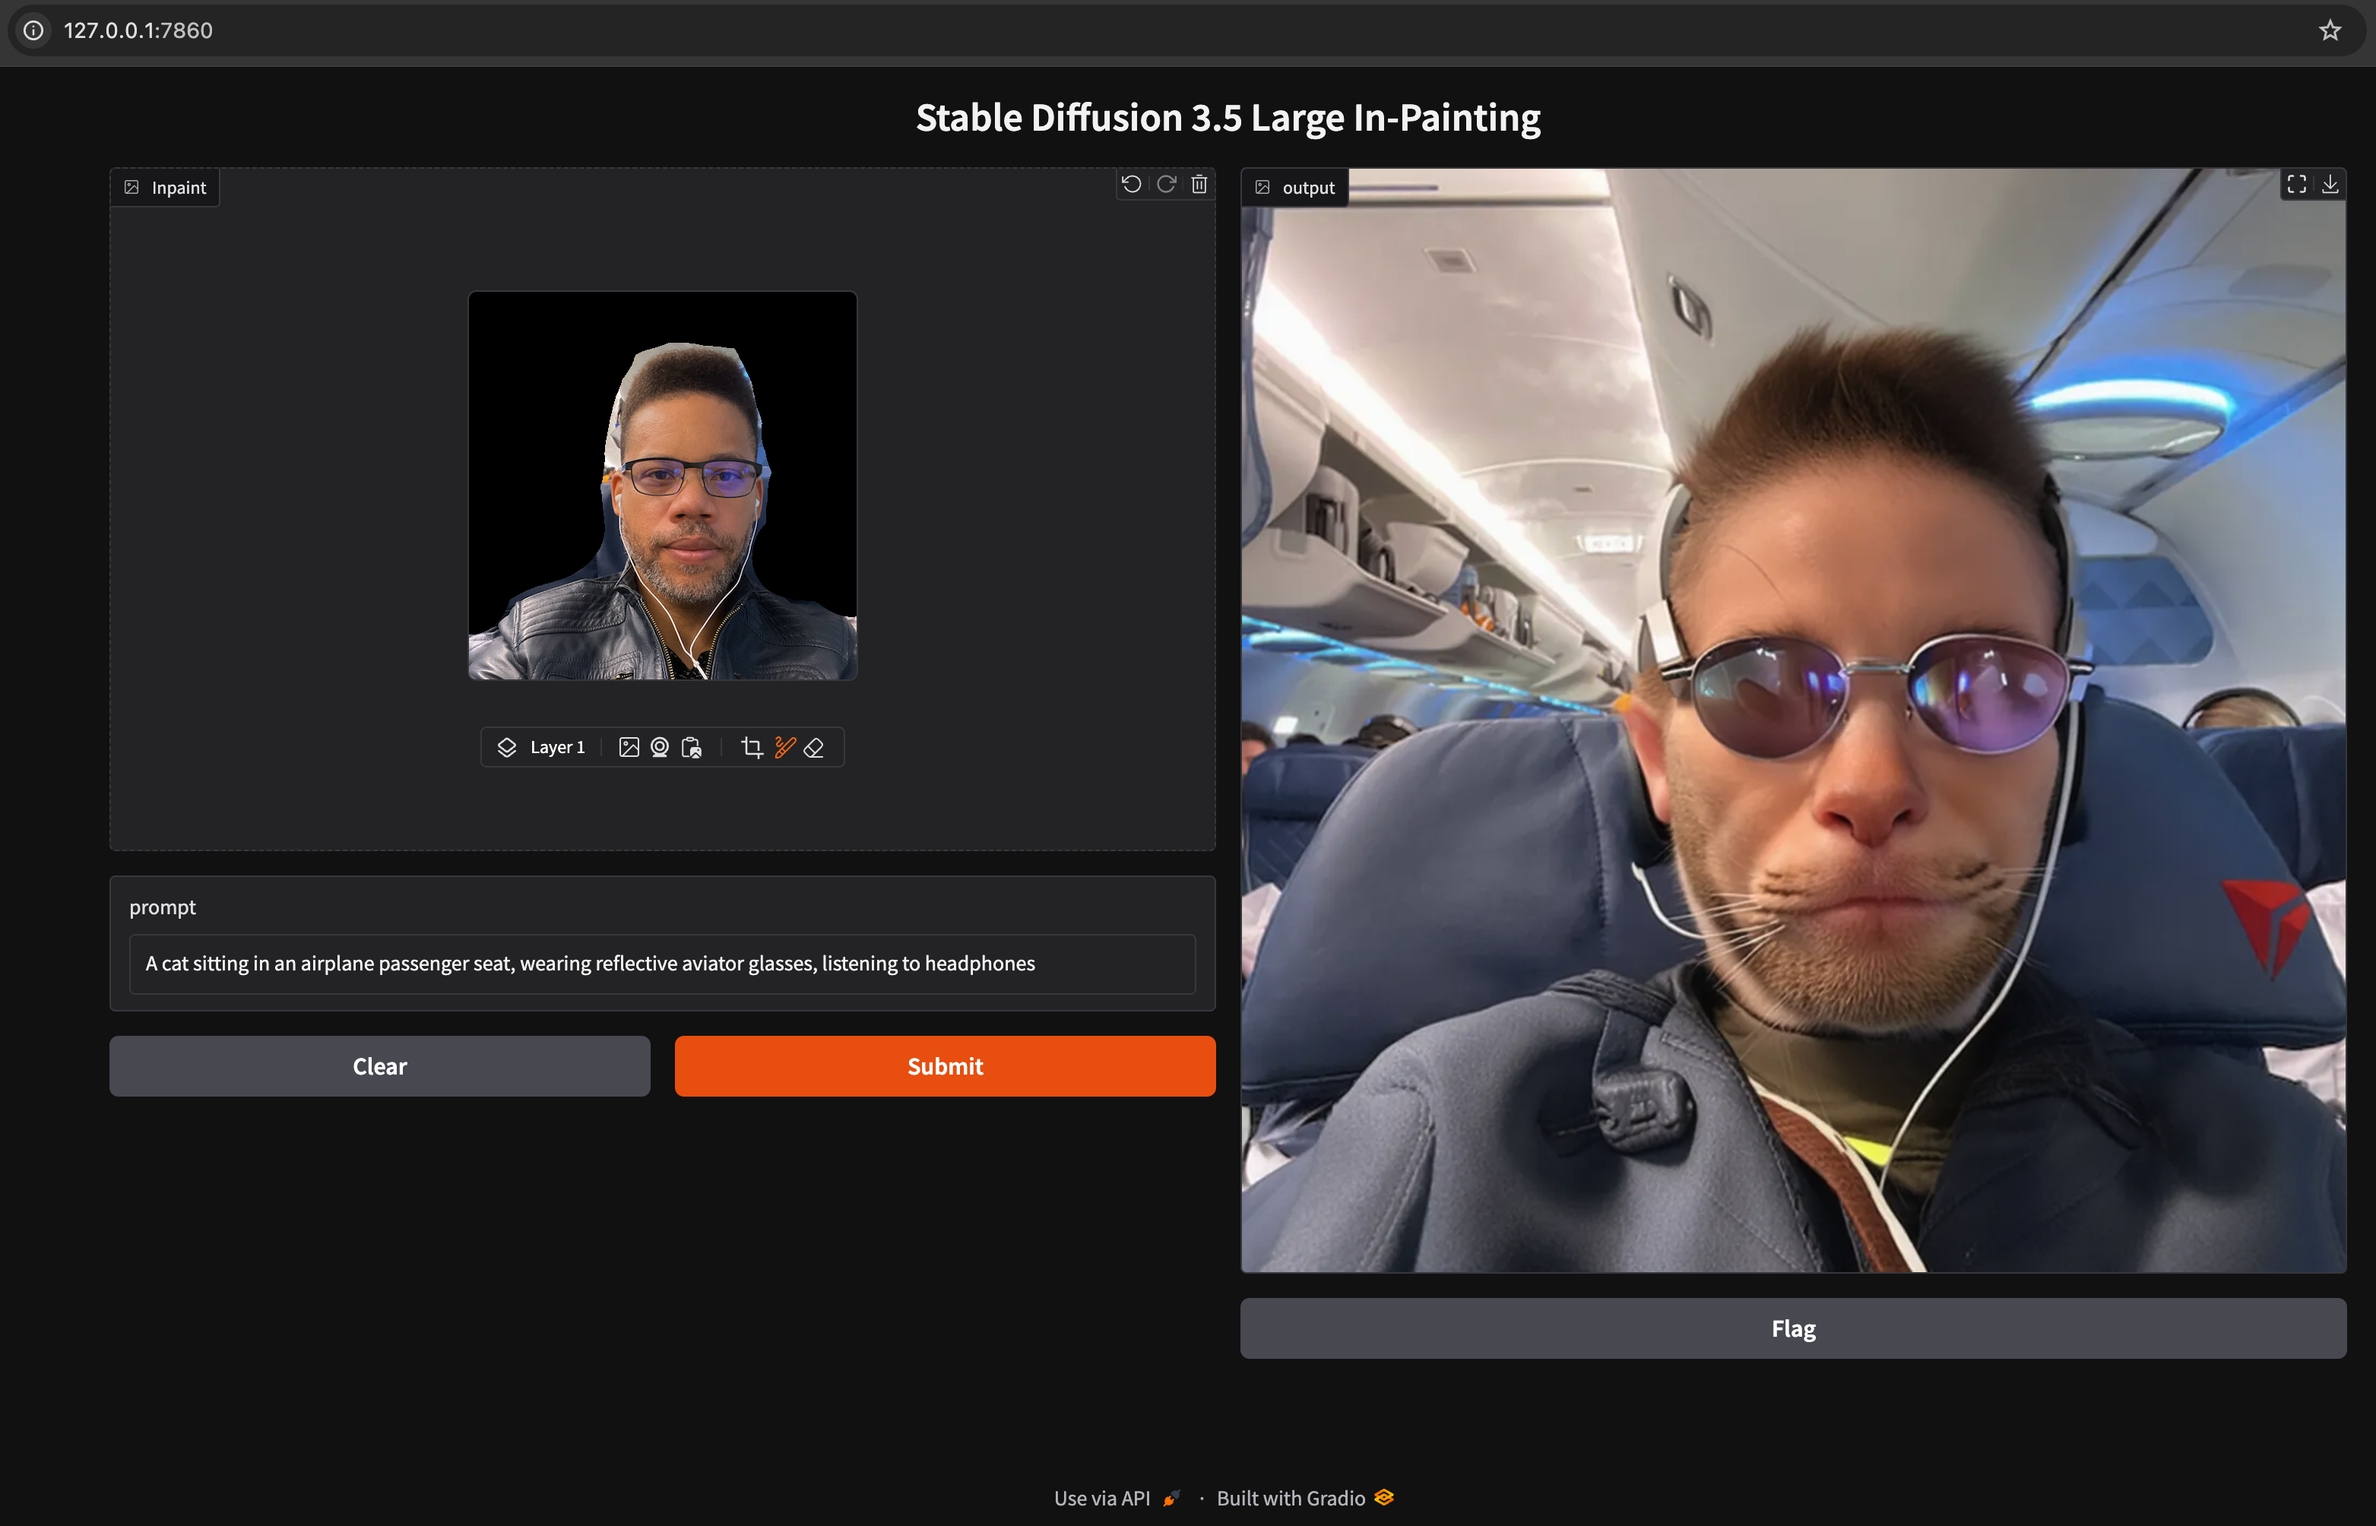
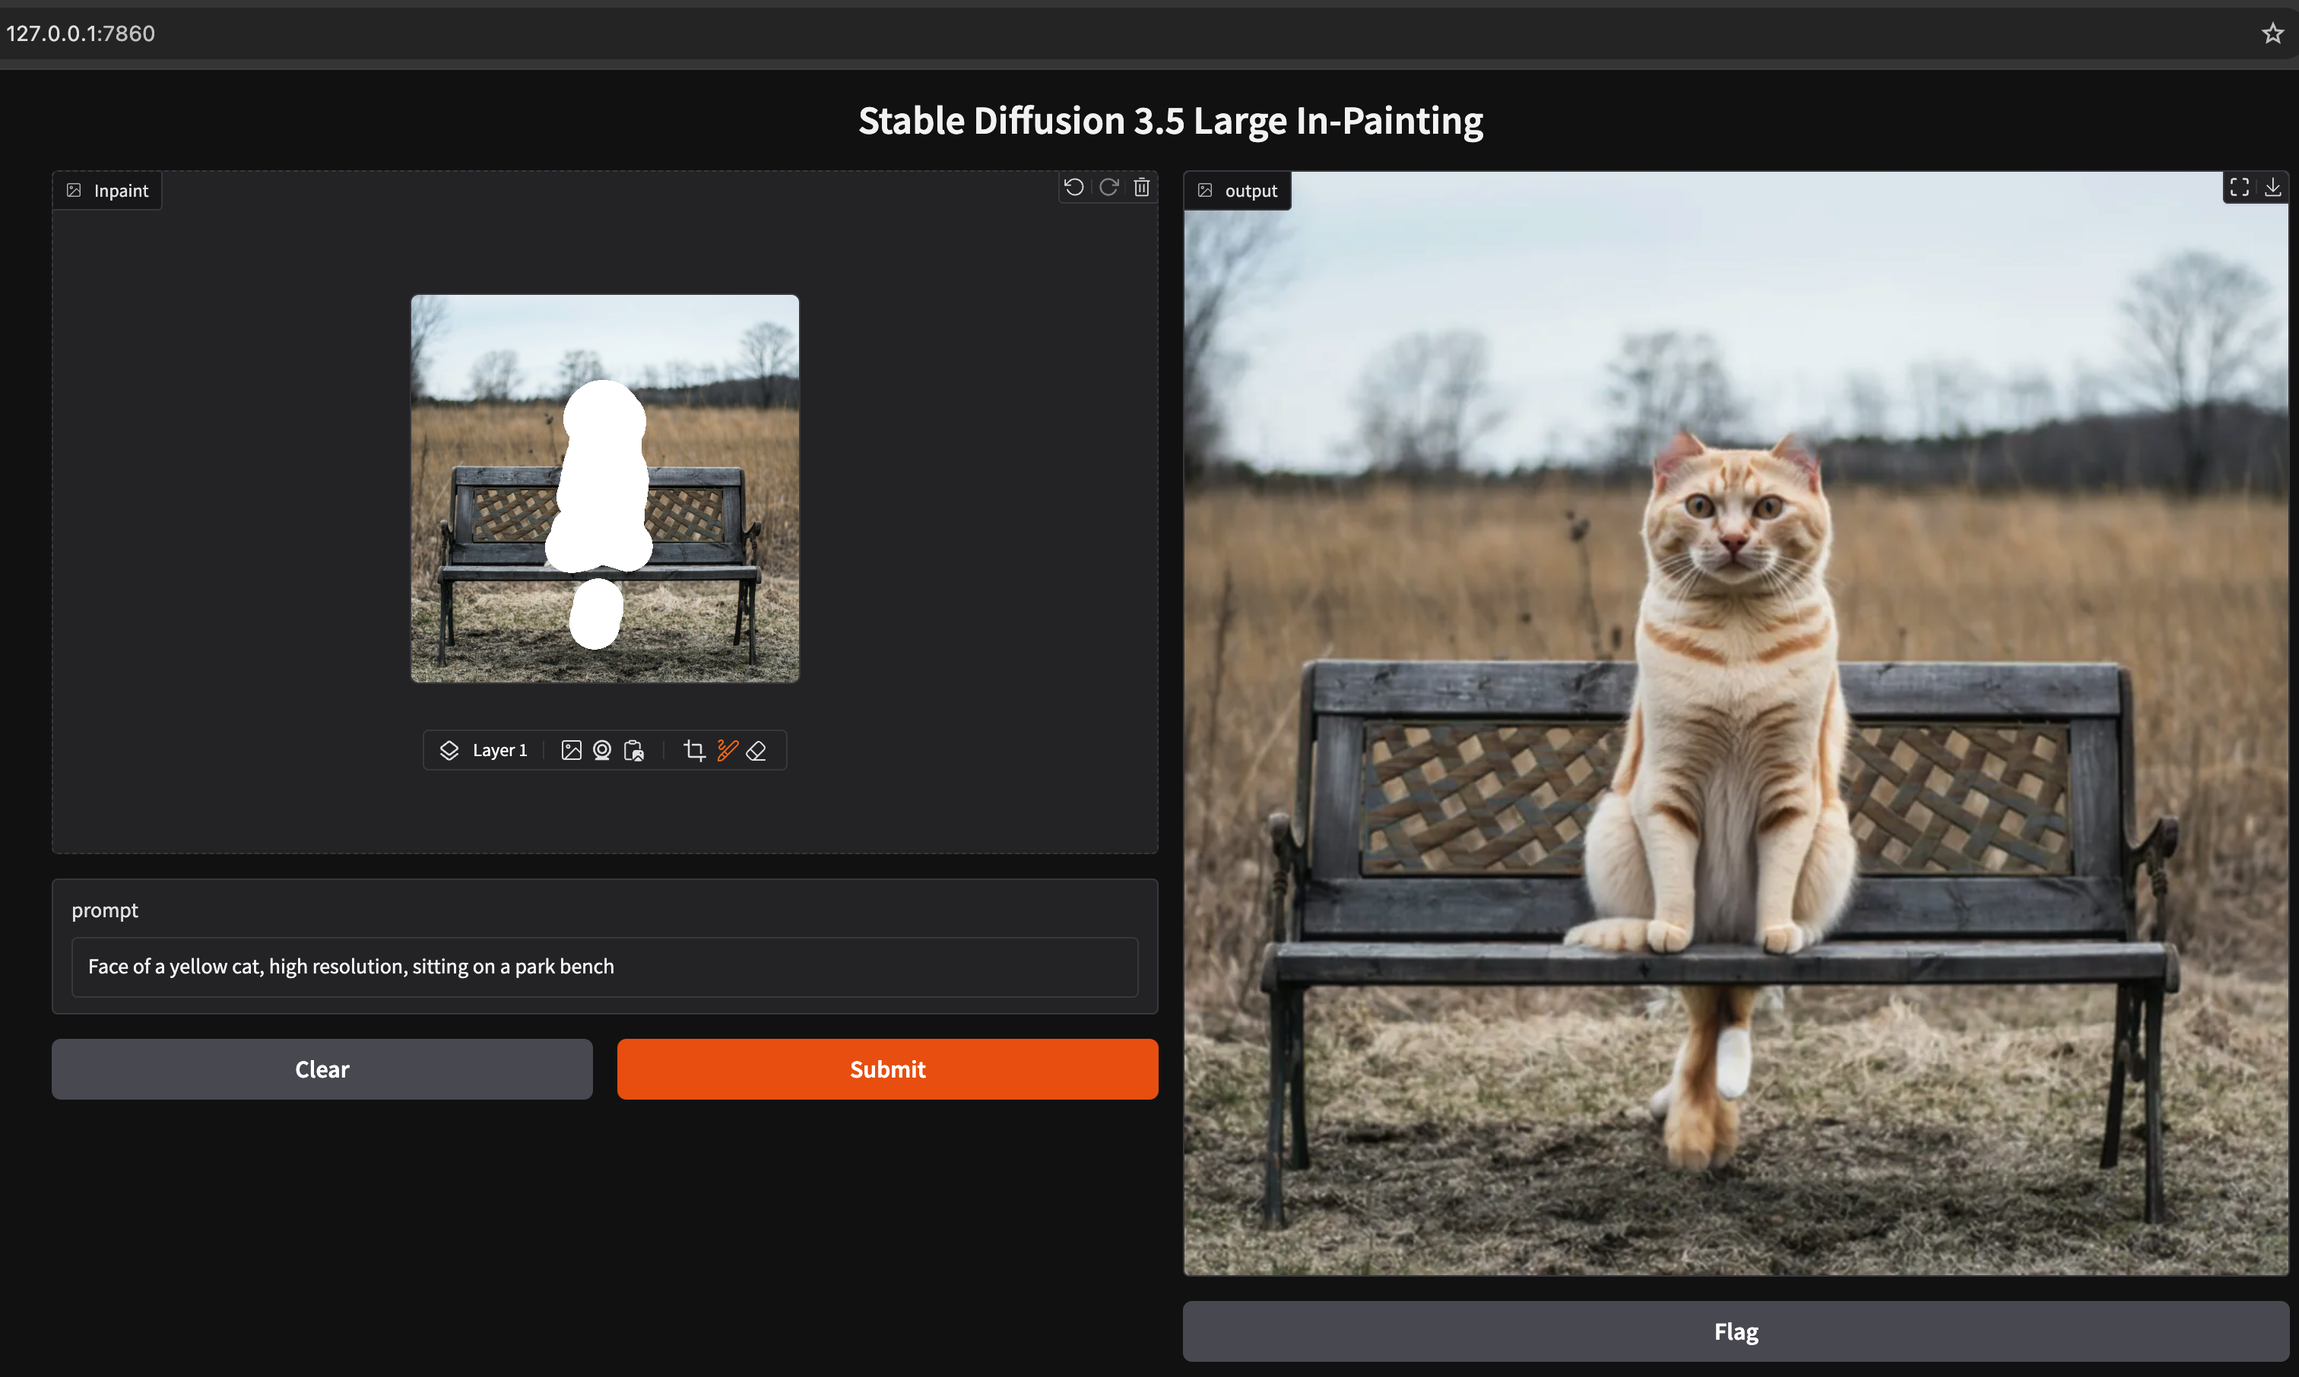
Intuitive inpaint brush

diff --git a/sd35-inpainting-gradio/app.py b/sd35-inpainting-gradio/app.py
@@ -22,13 +22,25 @@ import os
 
 from diffusers import StableDiffusion3InpaintPipeline
 from huggingface_hub import login
-from PIL import Image
 
 class StableUI:
     _pipe = []
 
     def __init__(self):
         pass
+
+    def login_to_hugging_face(self):
+        # Make sure the HUGGING_FACE_HUB_TOKEN environment variable is set
+        # with your Hugging Face Access token, or log in from the command line:
+        #
+        #  huggingface-cli login
+        #
+        # Instructions for getting an access token: https://huggingface.co/docs/hub/en/security-tokens
+        if os.getenv('HUGGING_FACE_HUB_TOKEN') or os.getenv('HF_TOKEN'):
+            print("Hugging Face access token set")
+        else:
+            login()
+            print("\nWARNING: To avoid the Hugging Face login prompt in the future, please set the HF_TOKEN environment variable:\n\n    export HF_TOKEN=<YOUR HUGGING FACE USER ACCESS TOKEN>\n")
 
     def _check_shader(self):
         if torch.backends.mps.is_available():
@@ -44,13 +56,8 @@ class StableUI:
 
         # Extract the image and mask channels
         image = mask['background'].convert("RGB")
-        mask = mask['layers'][0]
-        white_background = Image.new('RGB', (512, 512), (255, 255, 255))
-        mask_image = white_background.resize(mask.size)
-        mask_image.paste(mask, (0, 0), mask)
+        mask_image = mask['layers'][0].convert("RGB")
 
-        # White pixels in the mask are repainted while black pixels are preserved, documentation:
-        #   https://huggingface.co/docs/diffusers/api/pipelines/stable_diffusion/inpaint#diffusers.StableDiffusionInpaintPipeline.__call__.mask_image
         image.show()
         mask_image.show()
 
@@ -58,28 +65,19 @@ class StableUI:
         return images[0]
 
     def _start_gradio(self):
+        white_brush = gr.Brush(colors=['#FFFFFF'], color_mode='fixed')
+
         gr.Interface(
             self._predict,
             title='Stable Diffusion 3.5 Large In-Painting',
             inputs=[
-                gr.ImageMask(type='pil', label='Inpaint', canvas_size=(716, 716)),
+                gr.ImageMask(type='pil', label='Inpaint', canvas_size=(716, 716), brush=white_brush),
                 gr.Textbox(label='prompt')
             ],
             outputs='image'
         ).launch(debug=True, share=True)
 
-    def start_inpaint(self): 
-        # Make sure the HUGGING_FACE_HUB_TOKEN environment variable is set
-        # with your Hugging Face Access token, or log in from the command line:
-        #
-        #  huggingface-cli login
-        #
-        # Instructions for getting an access token: https://huggingface.co/docs/hub/en/security-tokens
-        if os.getenv('HUGGING_FACE_HUB_TOKEN') or os.getenv('HF_TOKEN'):
-            print("Hugging Face access token set")
-        else:
-            login()
-
+    def start_inpaint(self):
         self._pipe = StableDiffusion3InpaintPipeline.from_pretrained(
             "stabilityai/stable-diffusion-3.5-medium", torch_dtype=torch.float16)
         device = self._check_shader()
@@ -90,6 +88,7 @@ class StableUI:
 
 def main():
     ui = StableUI()
+    ui.login_to_hugging_face()
     ui.start_inpaint()
 
 if __name__ == "__main__":

diff --git a/sd35-inpainting-gradio/README.md b/sd35-inpainting-gradio/README.md
@@ -1,6 +1,6 @@
 # Approvals
 - [x] @Waheed Brown will create stability-ai-toolkit as INTERNAL ONLY
-- [ ] @Waheed Brown will commit a public-friendly version of his Stable Diffusion 3.5 Inpainting in Gradio code
+- [x] @Waheed Brown will commit a public-friendly version of his Stable Diffusion 3.5 Inpainting in Gradio code
 - [ ] @Dennis Niedworok and @Thomas Ortiz Security Slack Channel (#help-security) will review the technical content for quality, and IP leaks
 - [ ] @Waheed Brown will write a Stability AI Learning Hub blog post titled "Stable Diffusion 3.5 Inpainting in Gradio"
 - [ ] @ana guillén will review the blog post for Marketing approval
@@ -8,8 +8,6 @@
 
 # Stable Diffusion 3.5 Inpainting in Gradio
 Gradio demo of inpainting using Stable Diffusion 3.5 Medium
-
-**NOTE:** White pixels in the mask are repainted while black pixels are preserved: [`mask_image` documentation](https://huggingface.co/docs/diffusers/api/pipelines/stable_diffusion/inpaint#diffusers.StableDiffusionInpaintPipeline.__call__.mask_image)
 
 ### Screen Shot
 ![screenshot.png](./images/screenshot.png)
